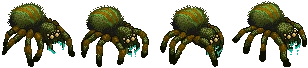
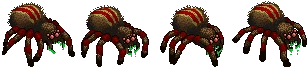
Hoa Sơn: mỗi lần spawn quái random một màu variant.

diff --git a/js/som_hoason_data.js b/js/som_hoason_data.js
@@ -1,3 +1,3 @@
-/* SoM Hoa Sơn: preview recolor random map1. */
+/* SoM Hoa Sơn: mỗi act 1 strip; spawn random màu (colors[]). */
 'use strict';
-window.SOM_HOASON={"roster": [{"id": 860,"n": "Nhện Độc","key": "som_spider","anim": {"st": {"f": "som_spider_st.webp","n": 4,"d": 1,"w": 71,"h": 67,"ax": 35,"ay": 65,"ms": 320,"fixed": 1,"flip": 1},"run": {"f": "som_spider_run.webp","n": 4,"d": 1,"w": 77,"h": 68,"ax": 38,"ay": 66,"ms": 180,"fixed": 1,"flip": 1},"at": {"f": "som_spider_at.webp","n": 5,"d": 1,"w": 89,"h": 64,"ax": 44,"ay": 62,"ms": 140,"fixed": 1,"flip": 1},"hurt": {"f": "som_spider_hurt.webp","n": 3,"d": 1,"w": 69,"h": 60,"ax": 34,"ay": 58,"ms": 180,"fixed": 1,"flip": 1},"die": {"f": "som_spider_die.webp","n": 4,"d": 1,"w": 76,"h": 61,"ax": 38,"ay": 59,"ms": 220,"fixed": 1,"flip": 1}},"img": "img/m/som_spider.png","sz": [63,52,31,52],"rmax": [60,90,75,60,75],"run": 5,"sk": [53,53,53,53],"faceOnly": 1},{"id": 861,"n": "Xích Thú","key": "som_lizard","anim": {"st": {"f": "som_lizard_st.webp","n": 4,"d": 1,"w": 63,"h": 68,"ax": 31,"ay": 66,"ms": 320,"fixed": 1,"flip": 1},"run": {"f": "som_lizard_run.webp","n": 4,"d": 1,"w": 71,"h": 61,"ax": 35,"ay": 59,"ms": 180,"fixed": 1,"flip": 1},"at": {"f": "som_lizard_at.webp","n": 6,"d": 1,"w": 72,"h": 74,"ax": 36,"ay": 72,"ms": 140,"fixed": 1,"flip": 1},"hurt": {"f": "som_lizard_hurt.webp","n": 3,"d": 1,"w": 55,"h": 50,"ax": 27,"ay": 48,"ms": 180,"fixed": 1,"flip": 1},"die": {"f": "som_lizard_die.webp","n": 5,"d": 1,"w": 59,"h": 68,"ax": 29,"ay": 66,"ms": 220,"fixed": 1,"flip": 1}},"img": "img/m/som_lizard.png","sz": [55,64,27,64],"rmax": [60,60,75,90,75],"run": 6,"sk": [53,53,53,53],"faceOnly": 1},{"id": 862,"n": "Chuột Yêu","key": "som_ratman","anim": {"st": {"f": "som_ratman_st.webp","n": 7,"d": 1,"w": 68,"h": 69,"ax": 34,"ay": 67,"ms": 320,"fixed": 1,"flip": 1},"run": {"f": "som_ratman_run.webp","n": 4,"d": 1,"w": 70,"h": 68,"ax": 35,"ay": 66,"ms": 180,"fixed": 1,"flip": 1},"at": {"f": "som_ratman_at.webp","n": 5,"d": 1,"w": 84,"h": 81,"ax": 42,"ay": 79,"ms": 140,"fixed": 1,"flip": 1},"hurt": {"f": "som_ratman_hurt.webp","n": 3,"d": 1,"w": 61,"h": 61,"ax": 30,"ay": 59,"ms": 180,"fixed": 1,"flip": 1},"die": {"f": "som_ratman_die.webp","n": 3,"d": 1,"w": 100,"h": 61,"ax": 50,"ay": 59,"ms": 220,"fixed": 1,"flip": 1}},"img": "img/m/som_ratman.png","sz": [63,60,31,60],"rmax": [90,75,60,75,75],"run": 6,"sk": [53,53,53,53],"faceOnly": 1},{"id": 863,"n": "Tiểu Yêu","key": "som_imp","anim": {"st": {"f": "som_imp_st.webp","n": 5,"d": 1,"w": 62,"h": 58,"ax": 31,"ay": 56,"ms": 320,"fixed": 1,"flip": 1},"run": {"f": "som_imp_run.webp","n": 6,"d": 1,"w": 57,"h": 77,"ax": 28,"ay": 75,"ms": 180,"fixed": 1,"flip": 1},"at": {"f": "som_imp_at.webp","n": 5,"d": 1,"w": 68,"h": 75,"ax": 34,"ay": 73,"ms": 140,"fixed": 1,"flip": 1},"hurt": {"f": "som_imp_hurt.webp","n": 3,"d": 1,"w": 62,"h": 56,"ax": 31,"ay": 54,"ms": 180,"fixed": 1,"flip": 1},"die": {"f": "som_imp_die.webp","n": 5,"d": 1,"w": 64,"h": 57,"ax": 32,"ay": 55,"ms": 220,"fixed": 1,"flip": 1}},"img": "img/m/som_imp.png","sz": [57,55,28,55],"rmax": [75,60,75,90,60],"run": 7,"sk": [197,197,197,197],"faceOnly": 1},{"id": 864,"n": "Độc Nhãn Quỷ","key": "som_cyclops","anim": {"st": {"f": "som_cyclops_st.webp","n": 4,"d": 1,"w": 84,"h": 121,"ax": 42,"ay": 119,"ms": 320,"fixed": 1,"flip": 1},"run": {"f": "som_cyclops_run.webp","n": 4,"d": 1,"w": 91,"h": 122,"ax": 45,"ay": 120,"ms": 180,"fixed": 1,"flip": 1},"at": {"f": "som_cyclops_at.webp","n": 6,"d": 1,"w": 107,"h": 152,"ax": 53,"ay": 150,"ms": 140,"fixed": 1,"flip": 1},"hurt": {"f": "som_cyclops_hurt.webp","n": 3,"d": 1,"w": 100,"h": 114,"ax": 50,"ay": 112,"ms": 180,"fixed": 1,"flip": 1},"die": {"f": "som_cyclops_die.webp","n": 6,"d": 1,"w": 141,"h": 114,"ax": 70,"ay": 112,"ms": 220,"fixed": 1,"flip": 1}},"img": "img/m/som_cyclops.png","sz": [45,62,22,62],"rmax": [75,60,75,75,90],"run": 4,"sk": [101,240,53,53],"faceOnly": 1}],"zoneMobs": [860,861,862,863],"zoneBoss": 864};
+window.SOM_HOASON={"roster": [{"id": 860,"n": "Nhện Độc","key": "som_spider","anim": {"st": {"f": "som_spider_st.webp","n": 4,"d": 1,"w": 71,"h": 67,"ax": 35,"ay": 65,"ms": 320,"fixed": 1,"flip": 1},"run": {"f": "som_spider_run.webp","n": 4,"d": 1,"w": 77,"h": 68,"ax": 38,"ay": 66,"ms": 180,"fixed": 1,"flip": 1},"at": {"f": "som_spider_at.webp","n": 5,"d": 1,"w": 89,"h": 64,"ax": 44,"ay": 62,"ms": 140,"fixed": 1,"flip": 1},"hurt": {"f": "som_spider_hurt.webp","n": 3,"d": 1,"w": 69,"h": 60,"ax": 34,"ay": 58,"ms": 180,"fixed": 1,"flip": 1},"die": {"f": "som_spider_die.webp","n": 4,"d": 1,"w": 76,"h": 61,"ax": 38,"ay": 59,"ms": 220,"fixed": 1,"flip": 1}},"img": "img/m/som_spider.png","sz": [63,52,31,52],"rmax": [60,90,75,60,75],"run": 5,"sk": [53,53,53,53],"faceOnly": 1,"colors": [{"key": "som_spider","color": "default","anim": {"st": {"f": "som_spider_st.webp","n": 4,"d": 1,"w": 71,"h": 67,"ax": 35,"ay": 65,"ms": 320,"fixed": 1,"flip": 1},"run": {"f": "som_spider_run.webp","n": 4,"d": 1,"w": 77,"h": 68,"ax": 38,"ay": 66,"ms": 180,"fixed": 1,"flip": 1},"at": {"f": "som_spider_at.webp","n": 5,"d": 1,"w": 89,"h": 64,"ax": 44,"ay": 62,"ms": 140,"fixed": 1,"flip": 1},"hurt": {"f": "som_spider_hurt.webp","n": 3,"d": 1,"w": 69,"h": 60,"ax": 34,"ay": 58,"ms": 180,"fixed": 1,"flip": 1},"die": {"f": "som_spider_die.webp","n": 4,"d": 1,"w": 76,"h": 61,"ax": 38,"ay": 59,"ms": 220,"fixed": 1,"flip": 1}},"img": "img/m/som_spider.png"},{"key": "som_spider_green","color": "green","anim": {"st": {"f": "som_spider_green_st.webp","n": 4,"d": 1,"w": 71,"h": 67,"ax": 35,"ay": 65,"ms": 320,"fixed": 1,"flip": 1},"run": {"f": "som_spider_green_run.webp","n": 4,"d": 1,"w": 77,"h": 68,"ax": 38,"ay": 66,"ms": 180,"fixed": 1,"flip": 1},"at": {"f": "som_spider_green_at.webp","n": 5,"d": 1,"w": 89,"h": 64,"ax": 44,"ay": 62,"ms": 140,"fixed": 1,"flip": 1},"hurt": {"f": "som_spider_green_hurt.webp","n": 3,"d": 1,"w": 69,"h": 60,"ax": 34,"ay": 58,"ms": 180,"fixed": 1,"flip": 1},"die": {"f": "som_spider_green_die.webp","n": 4,"d": 1,"w": 76,"h": 61,"ax": 38,"ay": 59,"ms": 220,"fixed": 1,"flip": 1}},"img": "img/m/som_spider_green.png"},{"key": "som_spider_blue","color": "blue","anim": {"st": {"f": "som_spider_blue_st.webp","n": 4,"d": 1,"w": 71,"h": 67,"ax": 35,"ay": 65,"ms": 320,"fixed": 1,"flip": 1},"run": {"f": "som_spider_blue_run.webp","n": 4,"d": 1,"w": 77,"h": 68,"ax": 38,"ay": 66,"ms": 180,"fixed": 1,"flip": 1},"at": {"f": "som_spider_blue_at.webp","n": 5,"d": 1,"w": 89,"h": 64,"ax": 44,"ay": 62,"ms": 140,"fixed": 1,"flip": 1},"hurt": {"f": "som_spider_blue_hurt.webp","n": 3,"d": 1,"w": 69,"h": 60,"ax": 34,"ay": 58,"ms": 180,"fixed": 1,"flip": 1},"die": {"f": "som_spider_blue_die.webp","n": 4,"d": 1,"w": 76,"h": 61,"ax": 38,"ay": 59,"ms": 220,"fixed": 1,"flip": 1}},"img": "img/m/som_spider_blue.png"},{"key": "som_spider_purple","color": "purple","anim": {"st": {"f": "som_spider_purple_st.webp","n": 4,"d": 1,"w": 71,"h": 67,"ax": 35,"ay": 65,"ms": 320,"fixed": 1,"flip": 1},"run": {"f": "som_spider_purple_run.webp","n": 4,"d": 1,"w": 77,"h": 68,"ax": 38,"ay": 66,"ms": 180,"fixed": 1,"flip": 1},"at": {"f": "som_spider_purple_at.webp","n": 5,"d": 1,"w": 89,"h": 64,"ax": 44,"ay": 62,"ms": 140,"fixed": 1,"flip": 1},"hurt": {"f": "som_spider_purple_hurt.webp","n": 3,"d": 1,"w": 69,"h": 60,"ax": 34,"ay": 58,"ms": 180,"fixed": 1,"flip": 1},"die": {"f": "som_spider_purple_die.webp","n": 4,"d": 1,"w": 76,"h": 61,"ax": 38,"ay": 59,"ms": 220,"fixed": 1,"flip": 1}},"img": "img/m/som_spider_purple.png"},{"key": "som_spider_orange","color": "orange","anim": {"st": {"f": "som_spider_orange_st.webp","n": 4,"d": 1,"w": 71,"h": 67,"ax": 35,"ay": 65,"ms": 320,"fixed": 1,"flip": 1},"run": {"f": "som_spider_orange_run.webp","n": 4,"d": 1,"w": 77,"h": 68,"ax": 38,"ay": 66,"ms": 180,"fixed": 1,"flip": 1},"at": {"f": "som_spider_orange_at.webp","n": 5,"d": 1,"w": 89,"h": 64,"ax": 44,"ay": 62,"ms": 140,"fixed": 1,"flip": 1},"hurt": {"f": "som_spider_orange_hurt.webp","n": 3,"d": 1,"w": 69,"h": 60,"ax": 34,"ay": 58,"ms": 180,"fixed": 1,"flip": 1},"die": {"f": "som_spider_orange_die.webp","n": 4,"d": 1,"w": 76,"h": 61,"ax": 38,"ay": 59,"ms": 220,"fixed": 1,"flip": 1}},"img": "img/m/som_spider_orange.png"},{"key": "som_spider_teal","color": "teal","anim": {"st": {"f": "som_spider_teal_st.webp","n": 4,"d": 1,"w": 71,"h": 67,"ax": 35,"ay": 65,"ms": 320,"fixed": 1,"flip": 1},"run": {"f": "som_spider_teal_run.webp","n": 4,"d": 1,"w": 77,"h": 68,"ax": 38,"ay": 66,"ms": 180,"fixed": 1,"flip": 1},"at": {"f": "som_spider_teal_at.webp","n": 5,"d": 1,"w": 89,"h": 64,"ax": 44,"ay": 62,"ms": 140,"fixed": 1,"flip": 1},"hurt": {"f": "som_spider_teal_hurt.webp","n": 3,"d": 1,"w": 69,"h": 60,"ax": 34,"ay": 58,"ms": 180,"fixed": 1,"flip": 1},"die": {"f": "som_spider_teal_die.webp","n": 4,"d": 1,"w": 76,"h": 61,"ax": 38,"ay": 59,"ms": 220,"fixed": 1,"flip": 1}},"img": "img/m/som_spider_teal.png"}]},{"id": 861,"n": "Xích Thú","key": "som_lizard","anim": {"st": {"f": "som_lizard_st.webp","n": 4,"d": 1,"w": 63,"h": 68,"ax": 31,"ay": 66,"ms": 320,"fixed": 1,"flip": 1},"run": {"f": "som_lizard_run.webp","n": 4,"d": 1,"w": 71,"h": 61,"ax": 35,"ay": 59,"ms": 180,"fixed": 1,"flip": 1},"at": {"f": "som_lizard_at.webp","n": 6,"d": 1,"w": 72,"h": 74,"ax": 36,"ay": 72,"ms": 140,"fixed": 1,"flip": 1},"hurt": {"f": "som_lizard_hurt.webp","n": 3,"d": 1,"w": 55,"h": 50,"ax": 27,"ay": 48,"ms": 180,"fixed": 1,"flip": 1},"die": {"f": "som_lizard_die.webp","n": 5,"d": 1,"w": 59,"h": 68,"ax": 29,"ay": 66,"ms": 220,"fixed": 1,"flip": 1}},"img": "img/m/som_lizard.png","sz": [55,64,27,64],"rmax": [60,60,75,90,75],"run": 6,"sk": [53,53,53,53],"faceOnly": 1,"colors": [{"key": "som_lizard","color": "default","anim": {"st": {"f": "som_lizard_st.webp","n": 4,"d": 1,"w": 63,"h": 68,"ax": 31,"ay": 66,"ms": 320,"fixed": 1,"flip": 1},"run": {"f": "som_lizard_run.webp","n": 4,"d": 1,"w": 71,"h": 61,"ax": 35,"ay": 59,"ms": 180,"fixed": 1,"flip": 1},"at": {"f": "som_lizard_at.webp","n": 6,"d": 1,"w": 72,"h": 74,"ax": 36,"ay": 72,"ms": 140,"fixed": 1,"flip": 1},"hurt": {"f": "som_lizard_hurt.webp","n": 3,"d": 1,"w": 55,"h": 50,"ax": 27,"ay": 48,"ms": 180,"fixed": 1,"flip": 1},"die": {"f": "som_lizard_die.webp","n": 5,"d": 1,"w": 59,"h": 68,"ax": 29,"ay": 66,"ms": 220,"fixed": 1,"flip": 1}},"img": "img/m/som_lizard.png"},{"key": "som_lizard_black","color": "black","anim": {"st": {"f": "som_lizard_black_st.webp","n": 4,"d": 1,"w": 63,"h": 68,"ax": 31,"ay": 66,"ms": 320,"fixed": 1,"flip": 1},"run": {"f": "som_lizard_black_run.webp","n": 4,"d": 1,"w": 71,"h": 61,"ax": 35,"ay": 59,"ms": 180,"fixed": 1,"flip": 1},"at": {"f": "som_lizard_black_at.webp","n": 6,"d": 1,"w": 72,"h": 74,"ax": 36,"ay": 72,"ms": 140,"fixed": 1,"flip": 1},"hurt": {"f": "som_lizard_black_hurt.webp","n": 3,"d": 1,"w": 55,"h": 50,"ax": 27,"ay": 48,"ms": 180,"fixed": 1,"flip": 1},"die": {"f": "som_lizard_black_die.webp","n": 5,"d": 1,"w": 59,"h": 68,"ax": 29,"ay": 66,"ms": 220,"fixed": 1,"flip": 1}},"img": "img/m/som_lizard_black.png"},{"key": "som_lizard_blue","color": "blue","anim": {"st": {"f": "som_lizard_blue_st.webp","n": 4,"d": 1,"w": 63,"h": 68,"ax": 31,"ay": 66,"ms": 320,"fixed": 1,"flip": 1},"run": {"f": "som_lizard_blue_run.webp","n": 4,"d": 1,"w": 71,"h": 61,"ax": 35,"ay": 59,"ms": 180,"fixed": 1,"flip": 1},"at": {"f": "som_lizard_blue_at.webp","n": 6,"d": 1,"w": 72,"h": 74,"ax": 36,"ay": 72,"ms": 140,"fixed": 1,"flip": 1},"hurt": {"f": "som_lizard_blue_hurt.webp","n": 3,"d": 1,"w": 55,"h": 50,"ax": 27,"ay": 48,"ms": 180,"fixed": 1,"flip": 1},"die": {"f": "som_lizard_blue_die.webp","n": 5,"d": 1,"w": 59,"h": 68,"ax": 29,"ay": 66,"ms": 220,"fixed": 1,"flip": 1}},"img": "img/m/som_lizard_blue.png"},{"key": "som_lizard_brown","color": "brown","anim": {"st": {"f": "som_lizard_brown_st.webp","n": 4,"d": 1,"w": 63,"h": 68,"ax": 31,"ay": 66,"ms": 320,"fixed": 1,"flip": 1},"run": {"f": "som_lizard_brown_run.webp","n": 4,"d": 1,"w": 71,"h": 61,"ax": 35,"ay": 59,"ms": 180,"fixed": 1,"flip": 1},"at": {"f": "som_lizard_brown_at.webp","n": 6,"d": 1,"w": 72,"h": 74,"ax": 36,"ay": 72,"ms": 140,"fixed": 1,"flip": 1},"hurt": {"f": "som_lizard_brown_hurt.webp","n": 3,"d": 1,"w": 55,"h": 50,"ax": 27,"ay": 48,"ms": 180,"fixed": 1,"flip": 1},"die": {"f": "som_lizard_brown_die.webp","n": 5,"d": 1,"w": 59,"h": 68,"ax": 29,"ay": 66,"ms": 220,"fixed": 1,"flip": 1}},"img": "img/m/som_lizard_brown.png"},{"key": "som_lizard_gray","color": "gray","anim": {"st": {"f": "som_lizard_gray_st.webp","n": 4,"d": 1,"w": 63,"h": 68,"ax": 31,"ay": 66,"ms": 320,"fixed": 1,"flip": 1},"run": {"f": "som_lizard_gray_run.webp","n": 4,"d": 1,"w": 71,"h": 61,"ax": 35,"ay": 59,"ms": 180,"fixed": 1,"flip": 1},"at": {"f": "som_lizard_gray_at.webp","n": 6,"d": 1,"w": 72,"h": 74,"ax": 36,"ay": 72,"ms": 140,"fixed": 1,"flip": 1},"hurt": {"f": "som_lizard_gray_hurt.webp","n": 3,"d": 1,"w": 55,"h": 50,"ax": 27,"ay": 48,"ms": 180,"fixed": 1,"flip": 1},"die": {"f": "som_lizard_gray_die.webp","n": 5,"d": 1,"w": 59,"h": 68,"ax": 29,"ay": 66,"ms": 220,"fixed": 1,"flip": 1}},"img": "img/m/som_lizard_gray.png"},{"key": "som_lizard_tan","color": "tan","anim": {"st": {"f": "som_lizard_tan_st.webp","n": 4,"d": 1,"w": 63,"h": 68,"ax": 31,"ay": 66,"ms": 320,"fixed": 1,"flip": 1},"run": {"f": "som_lizard_tan_run.webp","n": 4,"d": 1,"w": 71,"h": 61,"ax": 35,"ay": 59,"ms": 180,"fixed": 1,"flip": 1},"at": {"f": "som_lizard_tan_at.webp","n": 6,"d": 1,"w": 72,"h": 74,"ax": 36,"ay": 72,"ms": 140,"fixed": 1,"flip": 1},"hurt": {"f": "som_lizard_tan_hurt.webp","n": 3,"d": 1,"w": 55,"h": 50,"ax": 27,"ay": 48,"ms": 180,"fixed": 1,"flip": 1},"die": {"f": "som_lizard_tan_die.webp","n": 5,"d": 1,"w": 59,"h": 68,"ax": 29,"ay": 66,"ms": 220,"fixed": 1,"flip": 1}},"img": "img/m/som_lizard_tan.png"},{"key": "som_lizard_teal","color": "teal","anim": {"st": {"f": "som_lizard_teal_st.webp","n": 4,"d": 1,"w": 63,"h": 68,"ax": 31,"ay": 66,"ms": 320,"fixed": 1,"flip": 1},"run": {"f": "som_lizard_teal_run.webp","n": 4,"d": 1,"w": 71,"h": 61,"ax": 35,"ay": 59,"ms": 180,"fixed": 1,"flip": 1},"at": {"f": "som_lizard_teal_at.webp","n": 6,"d": 1,"w": 72,"h": 74,"ax": 36,"ay": 72,"ms": 140,"fixed": 1,"flip": 1},"hurt": {"f": "som_lizard_teal_hurt.webp","n": 3,"d": 1,"w": 55,"h": 50,"ax": 27,"ay": 48,"ms": 180,"fixed": 1,"flip": 1},"die": {"f": "som_lizard_teal_die.webp","n": 5,"d": 1,"w": 59,"h": 68,"ax": 29,"ay": 66,"ms": 220,"fixed": 1,"flip": 1}},"img": "img/m/som_lizard_teal.png"},{"key": "som_lizard_violet","color": "violet","anim": {"st": {"f": "som_lizard_violet_st.webp","n": 4,"d": 1,"w": 63,"h": 68,"ax": 31,"ay": 66,"ms": 320,"fixed": 1,"flip": 1},"run": {"f": "som_lizard_violet_run.webp","n": 4,"d": 1,"w": 71,"h": 61,"ax": 35,"ay": 59,"ms": 180,"fixed": 1,"flip": 1},"at": {"f": "som_lizard_violet_at.webp","n": 6,"d": 1,"w": 72,"h": 74,"ax": 36,"ay": 72,"ms": 140,"fixed": 1,"flip": 1},"hurt": {"f": "som_lizard_violet_hurt.webp","n": 3,"d": 1,"w": 55,"h": 50,"ax": 27,"ay": 48,"ms": 180,"fixed": 1,"flip": 1},"die": {"f": "som_lizard_violet_die.webp","n": 5,"d": 1,"w": 59,"h": 68,"ax": 29,"ay": 66,"ms": 220,"fixed": 1,"flip": 1}},"img": "img/m/som_lizard_violet.png"}]},{"id": 862,"n": "Chuột Yêu","key": "som_ratman","anim": {"st": {"f": "som_ratman_st.webp","n": 7,"d": 1,"w": 68,"h": 69,"ax": 34,"ay": 67,"ms": 320,"fixed": 1,"flip": 1},"run": {"f": "som_ratman_run.webp","n": 4,"d": 1,"w": 70,"h": 68,"ax": 35,"ay": 66,"ms": 180,"fixed": 1,"flip": 1},"at": {"f": "som_ratman_at.webp","n": 5,"d": 1,"w": 84,"h": 81,"ax": 42,"ay": 79,"ms": 140,"fixed": 1,"flip": 1},"hurt": {"f": "som_ratman_hurt.webp","n": 3,"d": 1,"w": 61,"h": 61,"ax": 30,"ay": 59,"ms": 180,"fixed": 1,"flip": 1},"die": {"f": "som_ratman_die.webp","n": 3,"d": 1,"w": 100,"h": 61,"ax": 50,"ay": 59,"ms": 220,"fixed": 1,"flip": 1}},"img": "img/m/som_ratman.png","sz": [63,60,31,60],"rmax": [90,75,60,75,75],"run": 6,"sk": [53,53,53,53],"faceOnly": 1,"colors": [{"key": "som_ratman","color": "default","anim": {"st": {"f": "som_ratman_st.webp","n": 7,"d": 1,"w": 68,"h": 69,"ax": 34,"ay": 67,"ms": 320,"fixed": 1,"flip": 1},"run": {"f": "som_ratman_run.webp","n": 4,"d": 1,"w": 70,"h": 68,"ax": 35,"ay": 66,"ms": 180,"fixed": 1,"flip": 1},"at": {"f": "som_ratman_at.webp","n": 5,"d": 1,"w": 84,"h": 81,"ax": 42,"ay": 79,"ms": 140,"fixed": 1,"flip": 1},"hurt": {"f": "som_ratman_hurt.webp","n": 3,"d": 1,"w": 61,"h": 61,"ax": 30,"ay": 59,"ms": 180,"fixed": 1,"flip": 1},"die": {"f": "som_ratman_die.webp","n": 3,"d": 1,"w": 100,"h": 61,"ax": 50,"ay": 59,"ms": 220,"fixed": 1,"flip": 1}},"img": "img/m/som_ratman.png"},{"key": "som_ratman_black","color": "black","anim": {"st": {"f": "som_ratman_black_st.webp","n": 7,"d": 1,"w": 68,"h": 69,"ax": 34,"ay": 67,"ms": 320,"fixed": 1,"flip": 1},"run": {"f": "som_ratman_black_run.webp","n": 4,"d": 1,"w": 70,"h": 68,"ax": 35,"ay": 66,"ms": 180,"fixed": 1,"flip": 1},"at": {"f": "som_ratman_black_at.webp","n": 5,"d": 1,"w": 84,"h": 81,"ax": 42,"ay": 79,"ms": 140,"fixed": 1,"flip": 1},"hurt": {"f": "som_ratman_black_hurt.webp","n": 3,"d": 1,"w": 61,"h": 61,"ax": 30,"ay": 59,"ms": 180,"fixed": 1,"flip": 1},"die": {"f": "som_ratman_black_die.webp","n": 3,"d": 1,"w": 100,"h": 61,"ax": 50,"ay": 59,"ms": 220,"fixed": 1,"flip": 1}},"img": "img/m/som_ratman_black.png"},{"key": "som_ratman_blue","color": "blue","anim": {"st": {"f": "som_ratman_blue_st.webp","n": 7,"d": 1,"w": 68,"h": 69,"ax": 34,"ay": 67,"ms": 320,"fixed": 1,"flip": 1},"run": {"f": "som_ratman_blue_run.webp","n": 4,"d": 1,"w": 70,"h": 68,"ax": 35,"ay": 66,"ms": 180,"fixed": 1,"flip": 1},"at": {"f": "som_ratman_blue_at.webp","n": 5,"d": 1,"w": 84,"h": 81,"ax": 42,"ay": 79,"ms": 140,"fixed": 1,"flip": 1},"hurt": {"f": "som_ratman_blue_hurt.webp","n": 3,"d": 1,"w": 61,"h": 61,"ax": 30,"ay": 59,"ms": 180,"fixed": 1,"flip": 1},"die": {"f": "som_ratman_blue_die.webp","n": 3,"d": 1,"w": 100,"h": 61,"ax": 50,"ay": 59,"ms": 220,"fixed": 1,"flip": 1}},"img": "img/m/som_ratman_blue.png"},{"key": "som_ratman_green","color": "green","anim": {"st": {"f": "som_ratman_green_st.webp","n": 7,"d": 1,"w": 68,"h": 69,"ax": 34,"ay": 67,"ms": 320,"fixed": 1,"flip": 1},"run": {"f": "som_ratman_green_run.webp","n": 4,"d": 1,"w": 70,"h": 68,"ax": 35,"ay": 66,"ms": 180,"fixed": 1,"flip": 1},"at": {"f": "som_ratman_green_at.webp","n": 5,"d": 1,"w": 84,"h": 81,"ax": 42,"ay": 79,"ms": 140,"fixed": 1,"flip": 1},"hurt": {"f": "som_ratman_green_hurt.webp","n": 3,"d": 1,"w": 61,"h": 61,"ax": 30,"ay": 59,"ms": 180,"fixed": 1,"flip": 1},"die": {"f": "som_ratman_green_die.webp","n": 3,"d": 1,"w": 100,"h": 61,"ax": 50,"ay": 59,"ms": 220,"fixed": 1,"flip": 1}},"img": "img/m/som_ratman_green.png"},{"key": "som_ratman_purple","color": "purple","anim": {"st": {"f": "som_ratman_purple_st.webp","n": 7,"d": 1,"w": 68,"h": 69,"ax": 34,"ay": 67,"ms": 320,"fixed": 1,"flip": 1},"run": {"f": "som_ratman_purple_run.webp","n": 4,"d": 1,"w": 70,"h": 68,"ax": 35,"ay": 66,"ms": 180,"fixed": 1,"flip": 1},"at": {"f": "som_ratman_purple_at.webp","n": 5,"d": 1,"w": 84,"h": 81,"ax": 42,"ay": 79,"ms": 140,"fixed": 1,"flip": 1},"hurt": {"f": "som_ratman_purple_hurt.webp","n": 3,"d": 1,"w": 61,"h": 61,"ax": 30,"ay": 59,"ms": 180,"fixed": 1,"flip": 1},"die": {"f": "som_ratman_purple_die.webp","n": 3,"d": 1,"w": 100,"h": 61,"ax": 50,"ay": 59,"ms": 220,"fixed": 1,"flip": 1}},"img": "img/m/som_ratman_purple.png"},{"key": "som_ratman_teal","color": "teal","anim": {"st": {"f": "som_ratman_teal_st.webp","n": 7,"d": 1,"w": 68,"h": 69,"ax": 34,"ay": 67,"ms": 320,"fixed": 1,"flip": 1},"run": {"f": "som_ratman_teal_run.webp","n": 4,"d": 1,"w": 70,"h": 68,"ax": 35,"ay": 66,"ms": 180,"fixed": 1,"flip": 1},"at": {"f": "som_ratman_teal_at.webp","n": 5,"d": 1,"w": 84,"h": 81,"ax": 42,"ay": 79,"ms": 140,"fixed": 1,"flip": 1},"hurt": {"f": "som_ratman_teal_hurt.webp","n": 3,"d": 1,"w": 61,"h": 61,"ax": 30,"ay": 59,"ms": 180,"fixed": 1,"flip": 1},"die": {"f": "som_ratman_teal_die.webp","n": 3,"d": 1,"w": 100,"h": 61,"ax": 50,"ay": 59,"ms": 220,"fixed": 1,"flip": 1}},"img": "img/m/som_ratman_teal.png"}]},{"id": 863,"n": "Tiểu Yêu","key": "som_imp","anim": {"st": {"f": "som_imp_st.webp","n": 5,"d": 1,"w": 62,"h": 58,"ax": 31,"ay": 56,"ms": 320,"fixed": 1,"flip": 1},"run": {"f": "som_imp_run.webp","n": 6,"d": 1,"w": 57,"h": 77,"ax": 28,"ay": 75,"ms": 180,"fixed": 1,"flip": 1},"at": {"f": "som_imp_at.webp","n": 5,"d": 1,"w": 68,"h": 75,"ax": 34,"ay": 73,"ms": 140,"fixed": 1,"flip": 1},"hurt": {"f": "som_imp_hurt.webp","n": 3,"d": 1,"w": 62,"h": 56,"ax": 31,"ay": 54,"ms": 180,"fixed": 1,"flip": 1},"die": {"f": "som_imp_die.webp","n": 5,"d": 1,"w": 64,"h": 57,"ax": 32,"ay": 55,"ms": 220,"fixed": 1,"flip": 1}},"img": "img/m/som_imp.png","sz": [57,55,28,55],"rmax": [75,60,75,90,60],"run": 7,"sk": [197,197,197,197],"faceOnly": 1,"colors": [{"key": "som_imp","color": "default","anim": {"st": {"f": "som_imp_st.webp","n": 5,"d": 1,"w": 62,"h": 58,"ax": 31,"ay": 56,"ms": 320,"fixed": 1,"flip": 1},"run": {"f": "som_imp_run.webp","n": 6,"d": 1,"w": 57,"h": 77,"ax": 28,"ay": 75,"ms": 180,"fixed": 1,"flip": 1},"at": {"f": "som_imp_at.webp","n": 5,"d": 1,"w": 68,"h": 75,"ax": 34,"ay": 73,"ms": 140,"fixed": 1,"flip": 1},"hurt": {"f": "som_imp_hurt.webp","n": 3,"d": 1,"w": 62,"h": 56,"ax": 31,"ay": 54,"ms": 180,"fixed": 1,"flip": 1},"die": {"f": "som_imp_die.webp","n": 5,"d": 1,"w": 64,"h": 57,"ax": 32,"ay": 55,"ms": 220,"fixed": 1,"flip": 1}},"img": "img/m/som_imp.png"},{"key": "som_imp_black","color": "black","anim": {"st": {"f": "som_imp_black_st.webp","n": 5,"d": 1,"w": 62,"h": 58,"ax": 31,"ay": 56,"ms": 320,"fixed": 1,"flip": 1},"run": {"f": "som_imp_black_run.webp","n": 6,"d": 1,"w": 57,"h": 77,"ax": 28,"ay": 75,"ms": 180,"fixed": 1,"flip": 1},"at": {"f": "som_imp_black_at.webp","n": 5,"d": 1,"w": 68,"h": 75,"ax": 34,"ay": 73,"ms": 140,"fixed": 1,"flip": 1},"hurt": {"f": "som_imp_black_hurt.webp","n": 3,"d": 1,"w": 62,"h": 56,"ax": 31,"ay": 54,"ms": 180,"fixed": 1,"flip": 1},"die": {"f": "som_imp_black_die.webp","n": 5,"d": 1,"w": 64,"h": 57,"ax": 32,"ay": 55,"ms": 220,"fixed": 1,"flip": 1}},"img": "img/m/som_imp_black.png"},{"key": "som_imp_blue","color": "blue","anim": {"st": {"f": "som_imp_blue_st.webp","n": 5,"d": 1,"w": 62,"h": 58,"ax": 31,"ay": 56,"ms": 320,"fixed": 1,"flip": 1},"run": {"f": "som_imp_blue_run.webp","n": 6,"d": 1,"w": 57,"h": 77,"ax": 28,"ay": 75,"ms": 180,"fixed": 1,"flip": 1},"at": {"f": "som_imp_blue_at.webp","n": 5,"d": 1,"w": 68,"h": 75,"ax": 34,"ay": 73,"ms": 140,"fixed": 1,"flip": 1},"hurt": {"f": "som_imp_blue_hurt.webp","n": 3,"d": 1,"w": 62,"h": 56,"ax": 31,"ay": 54,"ms": 180,"fixed": 1,"flip": 1},"die": {"f": "som_imp_blue_die.webp","n": 5,"d": 1,"w": 64,"h": 57,"ax": 32,"ay": 55,"ms": 220,"fixed": 1,"flip": 1}},"img": "img/m/som_imp_blue.png"},{"key": "som_imp_gray","color": "gray","anim": {"st": {"f": "som_imp_gray_st.webp","n": 5,"d": 1,"w": 62,"h": 58,"ax": 31,"ay": 56,"ms": 320,"fixed": 1,"flip": 1},"run": {"f": "som_imp_gray_run.webp","n": 6,"d": 1,"w": 57,"h": 77,"ax": 28,"ay": 75,"ms": 180,"fixed": 1,"flip": 1},"at": {"f": "som_imp_gray_at.webp","n": 5,"d": 1,"w": 68,"h": 75,"ax": 34,"ay": 73,"ms": 140,"fixed": 1,"flip": 1},"hurt": {"f": "som_imp_gray_hurt.webp","n": 3,"d": 1,"w": 62,"h": 56,"ax": 31,"ay": 54,"ms": 180,"fixed": 1,"flip": 1},"die": {"f": "som_imp_gray_die.webp","n": 5,"d": 1,"w": 64,"h": 57,"ax": 32,"ay": 55,"ms": 220,"fixed": 1,"flip": 1}},"img": "img/m/som_imp_gray.png"},{"key": "som_imp_green","color": "green","anim": {"st": {"f": "som_imp_green_st.webp","n": 5,"d": 1,"w": 62,"h": 58,"ax": 31,"ay": 56,"ms": 320,"fixed": 1,"flip": 1},"run": {"f": "som_imp_green_run.webp","n": 6,"d": 1,"w": 57,"h": 77,"ax": 28,"ay": 75,"ms": 180,"fixed": 1,"flip": 1},"at": {"f": "som_imp_green_at.webp","n": 5,"d": 1,"w": 68,"h": 75,"ax": 34,"ay": 73,"ms": 140,"fixed": 1,"flip": 1},"hurt": {"f": "som_imp_green_hurt.webp","n": 3,"d": 1,"w": 62,"h": 56,"ax": 31,"ay": 54,"ms": 180,"fixed": 1,"flip": 1},"die": {"f": "som_imp_green_die.webp","n": 5,"d": 1,"w": 64,"h": 57,"ax": 32,"ay": 55,"ms": 220,"fixed": 1,"flip": 1}},"img": "img/m/som_imp_green.png"},{"key": "som_imp_orange","color": "orange","anim": {"st": {"f": "som_imp_orange_st.webp","n": 5,"d": 1,"w": 62,"h": 58,"ax": 31,"ay": 56,"ms": 320,"fixed": 1,"flip": 1},"run": {"f": "som_imp_orange_run.webp","n": 6,"d": 1,"w": 57,"h": 77,"ax": 28,"ay": 75,"ms": 180,"fixed": 1,"flip": 1},"at": {"f": "som_imp_orange_at.webp","n": 5,"d": 1,"w": 68,"h": 75,"ax": 34,"ay": 73,"ms": 140,"fixed": 1,"flip": 1},"hurt": {"f": "som_imp_orange_hurt.webp","n": 3,"d": 1,"w": 62,"h": 56,"ax": 31,"ay": 54,"ms": 180,"fixed": 1,"flip": 1},"die": {"f": "som_imp_orange_die.webp","n": 5,"d": 1,"w": 64,"h": 57,"ax": 32,"ay": 55,"ms": 220,"fixed": 1,"flip": 1}},"img": "img/m/som_imp_orange.png"},{"key": "som_imp_purple","color": "purple","anim": {"st": {"f": "som_imp_purple_st.webp","n": 5,"d": 1,"w": 62,"h": 58,"ax": 31,"ay": 56,"ms": 320,"fixed": 1,"flip": 1},"run": {"f": "som_imp_purple_run.webp","n": 6,"d": 1,"w": 57,"h": 77,"ax": 28,"ay": 75,"ms": 180,"fixed": 1,"flip": 1},"at": {"f": "som_imp_purple_at.webp","n": 5,"d": 1,"w": 68,"h": 75,"ax": 34,"ay": 73,"ms": 140,"fixed": 1,"flip": 1},"hurt": {"f": "som_imp_purple_hurt.webp","n": 3,"d": 1,"w": 62,"h": 56,"ax": 31,"ay": 54,"ms": 180,"fixed": 1,"flip": 1},"die": {"f": "som_imp_purple_die.webp","n": 5,"d": 1,"w": 64,"h": 57,"ax": 32,"ay": 55,"ms": 220,"fixed": 1,"flip": 1}},"img": "img/m/som_imp_purple.png"},{"key": "som_imp_red","color": "red","anim": {"st": {"f": "som_imp_red_st.webp","n": 5,"d": 1,"w": 62,"h": 58,"ax": 31,"ay": 56,"ms": 320,"fixed": 1,"flip": 1},"run": {"f": "som_imp_red_run.webp","n": 6,"d": 1,"w": 57,"h": 77,"ax": 28,"ay": 75,"ms": 180,"fixed": 1,"flip": 1},"at": {"f": "som_imp_red_at.webp","n": 5,"d": 1,"w": 68,"h": 75,"ax": 34,"ay": 73,"ms": 140,"fixed": 1,"flip": 1},"hurt": {"f": "som_imp_red_hurt.webp","n": 3,"d": 1,"w": 62,"h": 56,"ax": 31,"ay": 54,"ms": 180,"fixed": 1,"flip": 1},"die": {"f": "som_imp_red_die.webp","n": 5,"d": 1,"w": 64,"h": 57,"ax": 32,"ay": 55,"ms": 220,"fixed": 1,"flip": 1}},"img": "img/m/som_imp_red.png"}]},{"id": 864,"n": "Độc Nhãn Quỷ","key": "som_cyclops","anim": {"st": {"f": "som_cyclops_st.webp","n": 4,"d": 1,"w": 84,"h": 121,"ax": 42,"ay": 119,"ms": 320,"fixed": 1,"flip": 1},"run": {"f": "som_cyclops_run.webp","n": 4,"d": 1,"w": 91,"h": 122,"ax": 45,"ay": 120,"ms": 180,"fixed": 1,"flip": 1},"at": {"f": "som_cyclops_at.webp","n": 6,"d": 1,"w": 107,"h": 152,"ax": 53,"ay": 150,"ms": 140,"fixed": 1,"flip": 1},"hurt": {"f": "som_cyclops_hurt.webp","n": 3,"d": 1,"w": 100,"h": 114,"ax": 50,"ay": 112,"ms": 180,"fixed": 1,"flip": 1},"die": {"f": "som_cyclops_die.webp","n": 6,"d": 1,"w": 141,"h": 114,"ax": 70,"ay": 112,"ms": 220,"fixed": 1,"flip": 1}},"img": "img/m/som_cyclops.png","sz": [45,62,22,62],"rmax": [75,60,75,75,90],"run": 4,"sk": [101,240,53,53],"faceOnly": 1,"colors": [{"key": "som_cyclops","color": "default","anim": {"st": {"f": "som_cyclops_st.webp","n": 4,"d": 1,"w": 84,"h": 121,"ax": 42,"ay": 119,"ms": 320,"fixed": 1,"flip": 1},"run": {"f": "som_cyclops_run.webp","n": 4,"d": 1,"w": 91,"h": 122,"ax": 45,"ay": 120,"ms": 180,"fixed": 1,"flip": 1},"at": {"f": "som_cyclops_at.webp","n": 6,"d": 1,"w": 107,"h": 152,"ax": 53,"ay": 150,"ms": 140,"fixed": 1,"flip": 1},"hurt": {"f": "som_cyclops_hurt.webp","n": 3,"d": 1,"w": 100,"h": 114,"ax": 50,"ay": 112,"ms": 180,"fixed": 1,"flip": 1},"die": {"f": "som_cyclops_die.webp","n": 6,"d": 1,"w": 141,"h": 114,"ax": 70,"ay": 112,"ms": 220,"fixed": 1,"flip": 1}},"img": "img/m/som_cyclops.png"},{"key": "som_cyclops_blue","color": "blue","anim": {"st": {"f": "som_cyclops_blue_st.webp","n": 4,"d": 1,"w": 84,"h": 121,"ax": 42,"ay": 119,"ms": 320,"fixed": 1,"flip": 1},"run": {"f": "som_cyclops_blue_run.webp","n": 4,"d": 1,"w": 91,"h": 122,"ax": 45,"ay": 120,"ms": 180,"fixed": 1,"flip": 1},"at": {"f": "som_cyclops_blue_at.webp","n": 6,"d": 1,"w": 107,"h": 152,"ax": 53,"ay": 150,"ms": 140,"fixed": 1,"flip": 1},"hurt": {"f": "som_cyclops_blue_hurt.webp","n": 3,"d": 1,"w": 100,"h": 114,"ax": 50,"ay": 112,"ms": 180,"fixed": 1,"flip": 1},"die": {"f": "som_cyclops_blue_die.webp","n": 6,"d": 1,"w": 141,"h": 114,"ax": 70,"ay": 112,"ms": 220,"fixed": 1,"flip": 1}},"img": "img/m/som_cyclops_blue.png"},{"key": "som_cyclops_green","color": "green","anim": {"st": {"f": "som_cyclops_green_st.webp","n": 4,"d": 1,"w": 84,"h": 121,"ax": 42,"ay": 119,"ms": 320,"fixed": 1,"flip": 1},"run": {"f": "som_cyclops_green_run.webp","n": 4,"d": 1,"w": 91,"h": 122,"ax": 45,"ay": 120,"ms": 180,"fixed": 1,"flip": 1},"at": {"f": "som_cyclops_green_at.webp","n": 6,"d": 1,"w": 107,"h": 152,"ax": 53,"ay": 150,"ms": 140,"fixed": 1,"flip": 1},"hurt": {"f": "som_cyclops_green_hurt.webp","n": 3,"d": 1,"w": 100,"h": 114,"ax": 50,"ay": 112,"ms": 180,"fixed": 1,"flip": 1},"die": {"f": "som_cyclops_green_die.webp","n": 6,"d": 1,"w": 141,"h": 114,"ax": 70,"ay": 112,"ms": 220,"fixed": 1,"flip": 1}},"img": "img/m/som_cyclops_green.png"},{"key": "som_cyclops_purple","color": "purple","anim": {"st": {"f": "som_cyclops_purple_st.webp","n": 4,"d": 1,"w": 84,"h": 121,"ax": 42,"ay": 119,"ms": 320,"fixed": 1,"flip": 1},"run": {"f": "som_cyclops_purple_run.webp","n": 4,"d": 1,"w": 91,"h": 122,"ax": 45,"ay": 120,"ms": 180,"fixed": 1,"flip": 1},"at": {"f": "som_cyclops_purple_at.webp","n": 6,"d": 1,"w": 107,"h": 152,"ax": 53,"ay": 150,"ms": 140,"fixed": 1,"flip": 1},"hurt": {"f": "som_cyclops_purple_hurt.webp","n": 3,"d": 1,"w": 100,"h": 114,"ax": 50,"ay": 112,"ms": 180,"fixed": 1,"flip": 1},"die": {"f": "som_cyclops_purple_die.webp","n": 6,"d": 1,"w": 141,"h": 114,"ax": 70,"ay": 112,"ms": 220,"fixed": 1,"flip": 1}},"img": "img/m/som_cyclops_purple.png"},{"key": "som_cyclops_teal","color": "teal","anim": {"st": {"f": "som_cyclops_teal_st.webp","n": 4,"d": 1,"w": 84,"h": 121,"ax": 42,"ay": 119,"ms": 320,"fixed": 1,"flip": 1},"run": {"f": "som_cyclops_teal_run.webp","n": 4,"d": 1,"w": 91,"h": 122,"ax": 45,"ay": 120,"ms": 180,"fixed": 1,"flip": 1},"at": {"f": "som_cyclops_teal_at.webp","n": 6,"d": 1,"w": 107,"h": 152,"ax": 53,"ay": 150,"ms": 140,"fixed": 1,"flip": 1},"hurt": {"f": "som_cyclops_teal_hurt.webp","n": 3,"d": 1,"w": 100,"h": 114,"ax": 50,"ay": 112,"ms": 180,"fixed": 1,"flip": 1},"die": {"f": "som_cyclops_teal_die.webp","n": 6,"d": 1,"w": 141,"h": 114,"ax": 70,"ay": 112,"ms": 220,"fixed": 1,"flip": 1}},"img": "img/m/som_cyclops_teal.png"},{"key": "som_cyclops_orange","color": "orange","anim": {"st": {"f": "som_cyclops_orange_st.webp","n": 4,"d": 1,"w": 84,"h": 121,"ax": 42,"ay": 119,"ms": 320,"fixed": 1,"flip": 1},"run": {"f": "som_cyclops_orange_run.webp","n": 4,"d": 1,"w": 91,"h": 122,"ax": 45,"ay": 120,"ms": 180,"fixed": 1,"flip": 1},"at": {"f": "som_cyclops_orange_at.webp","n": 6,"d": 1,"w": 107,"h": 152,"ax": 53,"ay": 150,"ms": 140,"fixed": 1,"flip": 1},"hurt": {"f": "som_cyclops_orange_hurt.webp","n": 3,"d": 1,"w": 100,"h": 114,"ax": 50,"ay": 112,"ms": 180,"fixed": 1,"flip": 1},"die": {"f": "som_cyclops_orange_die.webp","n": 6,"d": 1,"w": 141,"h": 114,"ax": 70,"ay": 112,"ms": 220,"fixed": 1,"flip": 1}},"img": "img/m/som_cyclops_orange.png"}]}],"zoneMobs": [860,861,862,863],"zoneBoss": 864};

diff --git a/index.html b/index.html
@@ -9,10 +9,10 @@
 <link rel="manifest" href="manifest.json">
 <title>Võ Lâm Idle</title>
 <link rel="stylesheet" href="fonts/ibm-plex-mono.css">
-<link rel="stylesheet" href="style.css?v=208">
-<link rel="stylesheet" href="jx1ui.css?v=208">
-<link rel="stylesheet" href="jx1ui2.css?v=208">
-<link rel="stylesheet" href="ui20.css?v=208">
+<link rel="stylesheet" href="style.css?v=209">
+<link rel="stylesheet" href="jx1ui.css?v=209">
+<link rel="stylesheet" href="jx1ui2.css?v=209">
+<link rel="stylesheet" href="ui20.css?v=209">
 </head>
 <body>
 <div id="app">
@@ -81,68 +81,68 @@
   <div id="modal" class="hidden" role="dialog" aria-modal="true"><div class="mbox" tabindex="-1"><button class="mx" id="mClose">✕</button><div id="mBody"></div></div></div>
   <div id="toast" role="status" aria-live="polite"></div>
 </div>
-<script src="data.js?v=208"></script>
-<script src="setvi.js?v=208"></script>
-<script src="setfix.js?v=208"></script>
-<script src="world.js?v=208"></script>
-<script src="zones2.js?v=208"></script>
-<script src="js/som_hoason_data.js?v=208"></script>
-<script src="js/som_hoason.js?v=208"></script>
-<script src="sound.js?v=208"></script>
-<script src="fx.js?v=208"></script>
-<script src="jmo.js?v=208"></script>
-<script src="jmo2.js?v=208"></script>
-<script src="js/core.js?v=208"></script>
-<script src="js/mapobs.js?v=208"></script>
-<script src="js/stats.js?v=208"></script>
-<script src="js/vocong.js?v=208"></script>
-<script src="js/skillsys.js?v=208"></script>
-<script src="js/kytran.js?v=208"></script>
-<script src="js/loot.js?v=208"></script>
-<script src="rdata.js?v=208"></script>
-<script src="js/sets.js?v=208"></script>
-<script src="js/recipes.js?v=208"></script>
-<script src="js/combat.js?v=208"></script>
-<script src="js/field.js?v=208"></script>
-<script src="js/ride.js?v=208"></script>
-<script src="js/save.js?v=208"></script>
-<script src="js/render.js?v=208"></script>
-<script src="js/som_anim.js?v=208"></script>
-<script src="js/jxmis.js?v=208"></script>
-<script src="jxstate.js?v=208"></script>
-<script src="fx2.js?v=208"></script>
-<script src="fx3.js?v=208"></script>
-<script src="js/skillfx.js?v=208"></script>
-<script src="js/look.js?v=208"></script>
-<script src="js/jxparts.js?v=208"></script>
-<script src="js/audio.js?v=208"></script>
-<script src="js/ui.js?v=208"></script>
-<script src="js/control.js?v=208"></script>
-<script src="js/shop.js?v=208"></script>
-<script src="js/potsel.js?v=208"></script>
-<script src="js/rewards.js?v=208"></script>
-<script src="js/title.js?v=208"></script>
-<script src="js/records.js?v=208"></script>
-<script src="js/horse.js?v=208"></script>
-<script src="js/thanma.js?v=208"></script>
-<script src="js/dungeon.js?v=208"></script>
-<script src="js/giangho.js?v=208"></script>
-<script src="js/forge.js?v=208"></script>
-<script src="js/epdo.js?v=208"></script>
-<script src="js/thuyen.js?v=208"></script>
-<script src="js/mode.js?v=208"></script>
-<script src="js/tabs2.js?v=208"></script>
-<script src="js/auto.js?v=208"></script>
-<script src="js/guide.js?v=208"></script>
-<script src="js/stash.js?v=208"></script>
-<script src="js/donkho.js?v=208"></script>
-<script src="js/name.js?v=208"></script>
-<script src="js/chatcfg.js?v=208"></script>
-<script src="js/chat.js?v=208"></script>
-<script src="js/net.js?v=208"></script>
-<script src="js/ui20.js?v=208"></script>
-<script src="js/ui20win.js?v=208"></script>
-<script src="js/admin.js?v=208"></script>
-<script src="js/main.js?v=208"></script>
+<script src="data.js?v=209"></script>
+<script src="setvi.js?v=209"></script>
+<script src="setfix.js?v=209"></script>
+<script src="world.js?v=209"></script>
+<script src="zones2.js?v=209"></script>
+<script src="js/som_hoason_data.js?v=209"></script>
+<script src="js/som_hoason.js?v=209"></script>
+<script src="sound.js?v=209"></script>
+<script src="fx.js?v=209"></script>
+<script src="jmo.js?v=209"></script>
+<script src="jmo2.js?v=209"></script>
+<script src="js/core.js?v=209"></script>
+<script src="js/mapobs.js?v=209"></script>
+<script src="js/stats.js?v=209"></script>
+<script src="js/vocong.js?v=209"></script>
+<script src="js/skillsys.js?v=209"></script>
+<script src="js/kytran.js?v=209"></script>
+<script src="js/loot.js?v=209"></script>
+<script src="rdata.js?v=209"></script>
+<script src="js/sets.js?v=209"></script>
+<script src="js/recipes.js?v=209"></script>
+<script src="js/combat.js?v=209"></script>
+<script src="js/field.js?v=209"></script>
+<script src="js/ride.js?v=209"></script>
+<script src="js/save.js?v=209"></script>
+<script src="js/render.js?v=209"></script>
+<script src="js/som_anim.js?v=209"></script>
+<script src="js/jxmis.js?v=209"></script>
+<script src="jxstate.js?v=209"></script>
+<script src="fx2.js?v=209"></script>
+<script src="fx3.js?v=209"></script>
+<script src="js/skillfx.js?v=209"></script>
+<script src="js/look.js?v=209"></script>
+<script src="js/jxparts.js?v=209"></script>
+<script src="js/audio.js?v=209"></script>
+<script src="js/ui.js?v=209"></script>
+<script src="js/control.js?v=209"></script>
+<script src="js/shop.js?v=209"></script>
+<script src="js/potsel.js?v=209"></script>
+<script src="js/rewards.js?v=209"></script>
+<script src="js/title.js?v=209"></script>
+<script src="js/records.js?v=209"></script>
+<script src="js/horse.js?v=209"></script>
+<script src="js/thanma.js?v=209"></script>
+<script src="js/dungeon.js?v=209"></script>
+<script src="js/giangho.js?v=209"></script>
+<script src="js/forge.js?v=209"></script>
+<script src="js/epdo.js?v=209"></script>
+<script src="js/thuyen.js?v=209"></script>
+<script src="js/mode.js?v=209"></script>
+<script src="js/tabs2.js?v=209"></script>
+<script src="js/auto.js?v=209"></script>
+<script src="js/guide.js?v=209"></script>
+<script src="js/stash.js?v=209"></script>
+<script src="js/donkho.js?v=209"></script>
+<script src="js/name.js?v=209"></script>
+<script src="js/chatcfg.js?v=209"></script>
+<script src="js/chat.js?v=209"></script>
+<script src="js/net.js?v=209"></script>
+<script src="js/ui20.js?v=209"></script>
+<script src="js/ui20win.js?v=209"></script>
+<script src="js/admin.js?v=209"></script>
+<script src="js/main.js?v=209"></script>
 </body>
 </html>

diff --git a/js/som_hoason.js b/js/som_hoason.js
@@ -1,5 +1,6 @@
 /* Hoa Sơn: quái Spell of Mastery (NancyGold, CC-BY 4.0).
-   Chạy sau world.js + zones2.js — chỉ đổi roster map Hoa Sơn (id 2), không đụng map khác. */
+   Chạy sau world.js + zones2.js — chỉ đổi roster map Hoa Sơn (id 2), không đụng map khác.
+   Mỗi loại có nhiều màu (colors[]); spawn random màu trong som_anim.js. */
 'use strict';
 (function () {
   if (!window.JW) return;
@@ -9,6 +10,11 @@
   JW.mon = JW.mon || {};
   for (const r of META.roster) {
     JW.anim[r.key] = r.anim;
+    const colors = (r.colors || []).map(c => {
+      JW.anim[c.key] = c.anim;
+      return { key: c.key, color: c.color, img: c.img || r.img };
+    });
+    if (!colors.length) colors.push({ key: r.key, color: 'default', img: r.img });
     JW.mon[r.id] = {
       n: r.n,
       img: r.img,
@@ -19,7 +25,8 @@
       run: r.run,
       rmax: r.rmax,
       anim: r.key,
-      faceOnly: 1
+      faceOnly: 1,
+      somColors: colors
     };
   }
   const z = JW.zones && JW.zones.find(x => x.id === 2);

diff --git a/sw.js b/sw.js
@@ -1,7 +1,7 @@
 // Ma nguon (js/css/html): mang truoc, cache du phong (luon lay ban moi, choi offline khi mat mang).
 // Hinh / am thanh / font (nang, it doi): lay ngay tu cache, dong thoi tai lai ngam de cap nhat (stale-while-revalidate).
 // Cache hinh giu qua cac ban cap nhat -> khong phai tai lai ~200 MB ban do / sprite moi lan doi phien ban.
-const C = 'jxidle-v208', IMG = 'jxidle-img-1';
+const C = 'jxidle-v209', IMG = 'jxidle-img-1';
 const ASSET = /\.(png|jpe?g|webp|gif|mp3|ogg|wav|m4a|woff2?|ttf)$/i;
 self.addEventListener('install', e => self.skipWaiting());
 self.addEventListener('activate', e => e.waitUntil(caches.keys().then(ks => Promise.all(ks.filter(k => k !== C && k !== IMG).map(k => caches.delete(k)))).then(() => self.clients.claim())));
